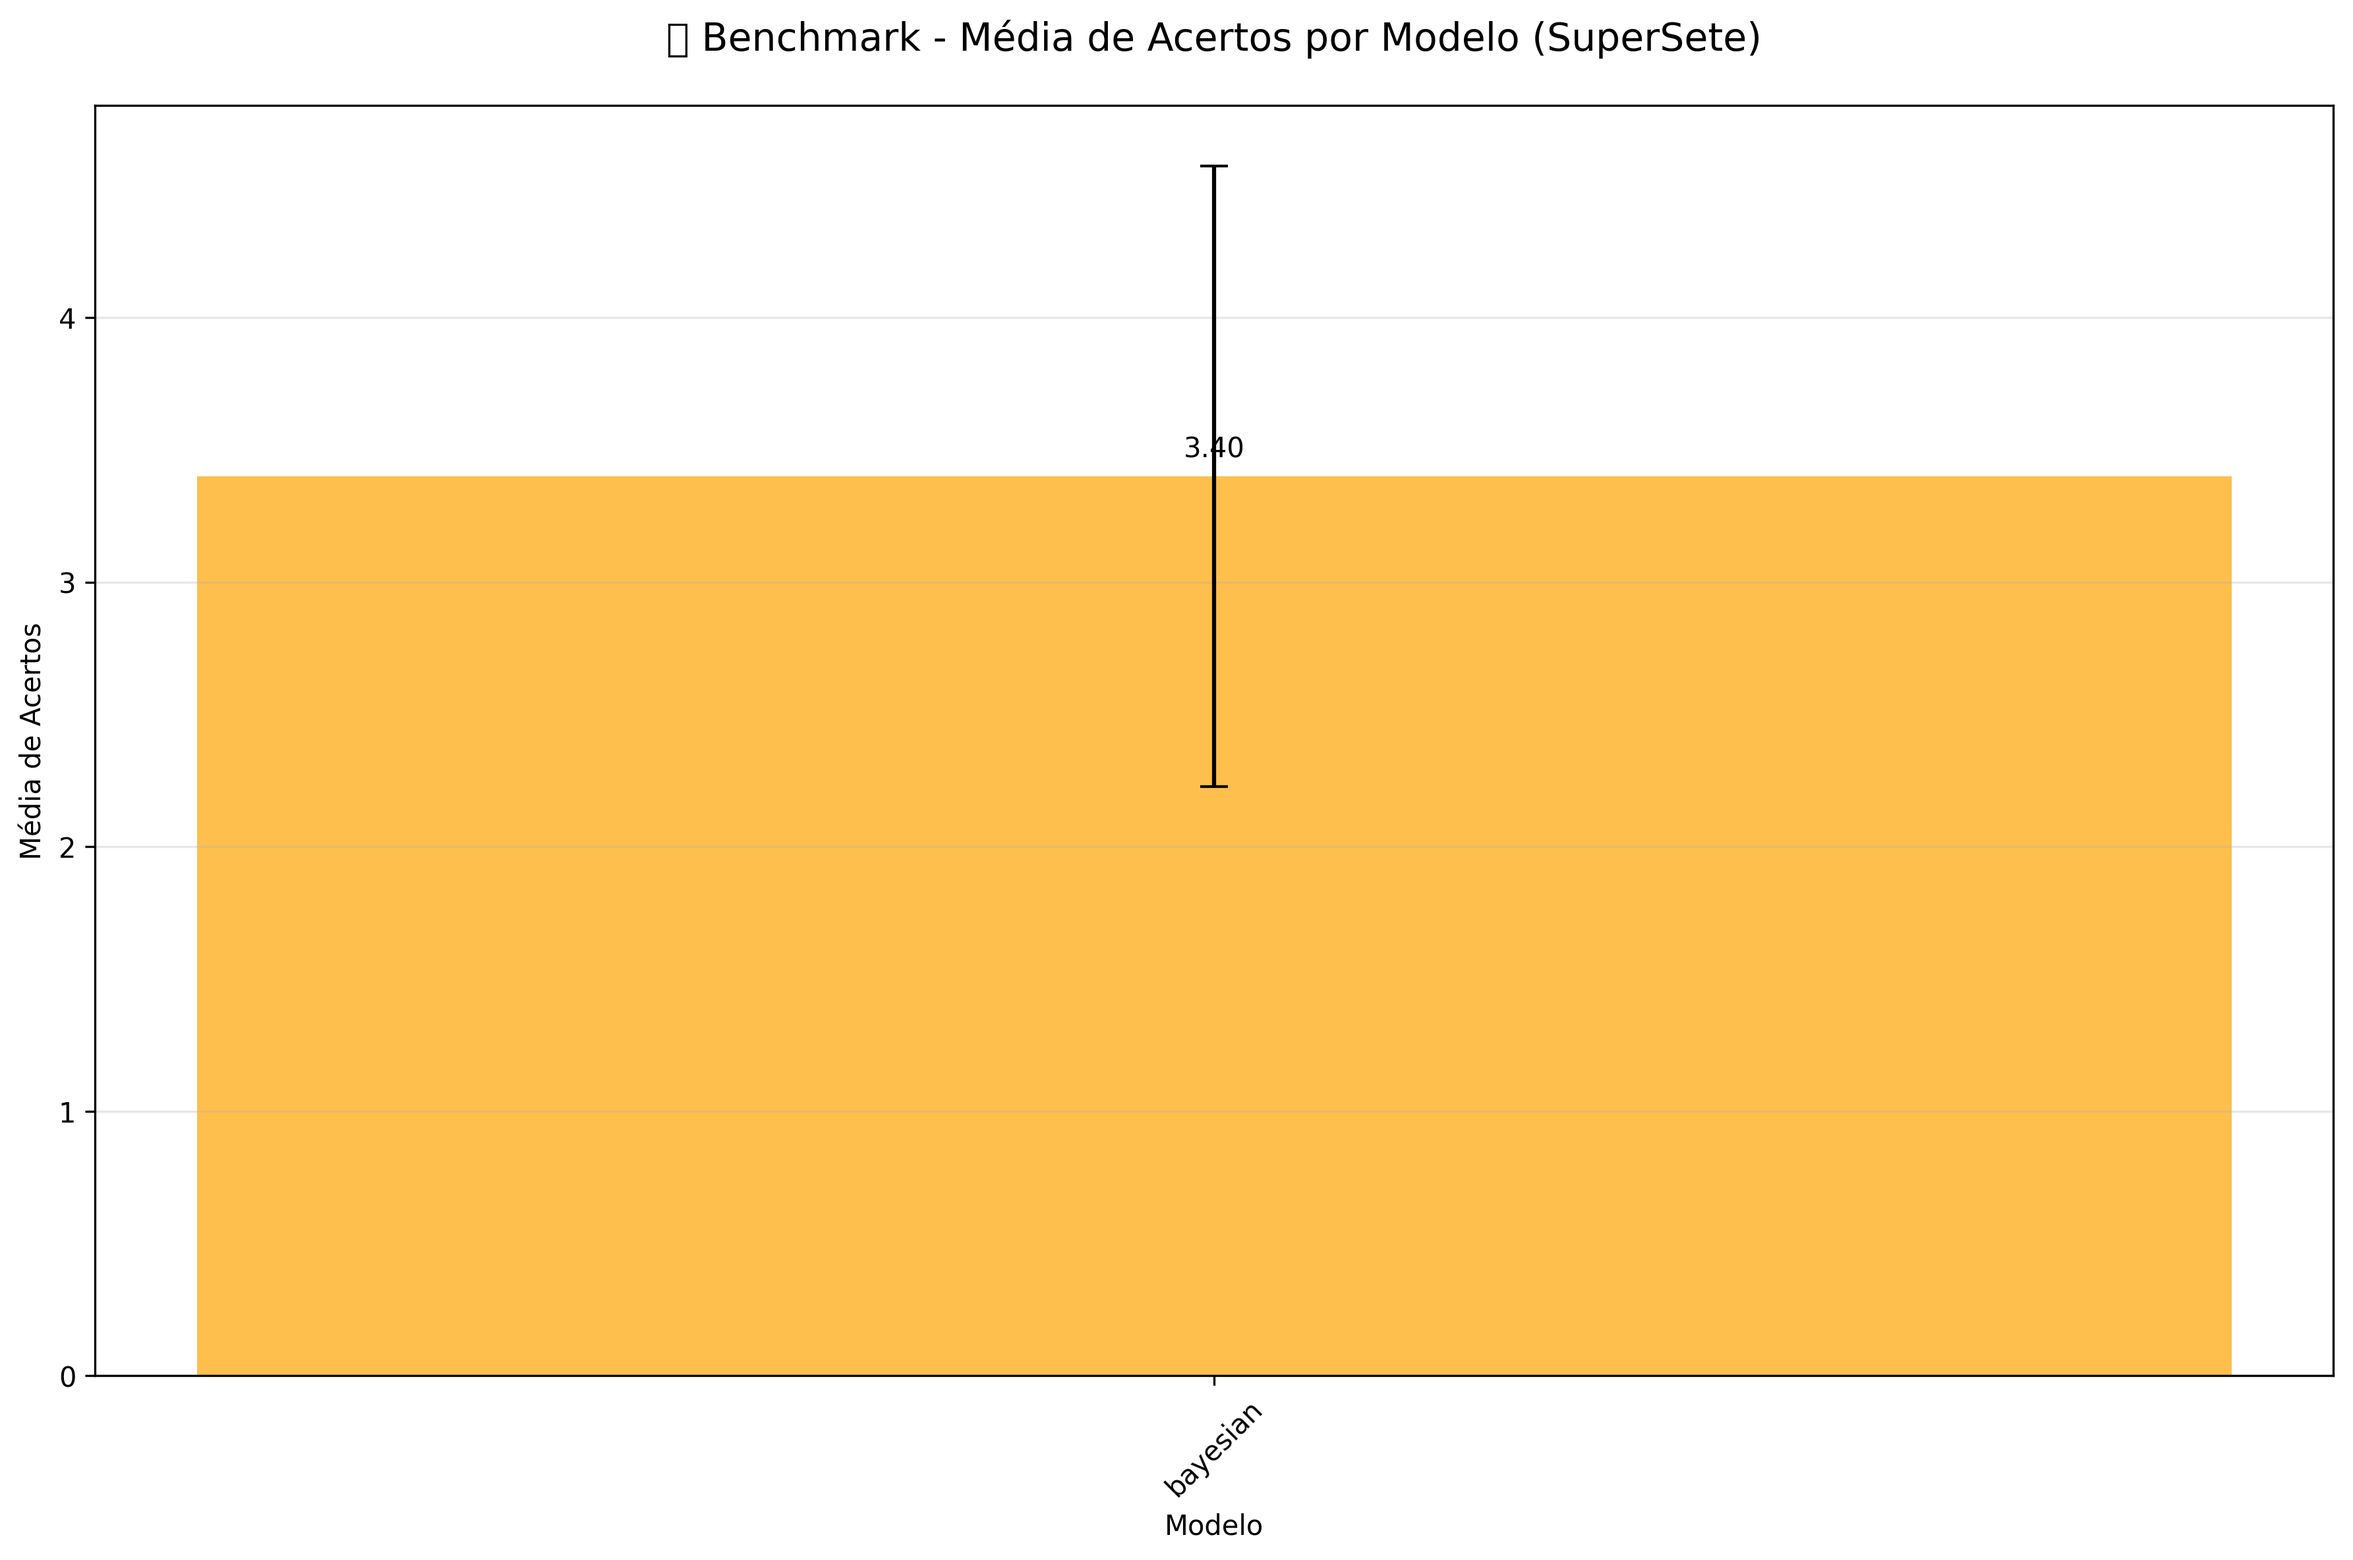
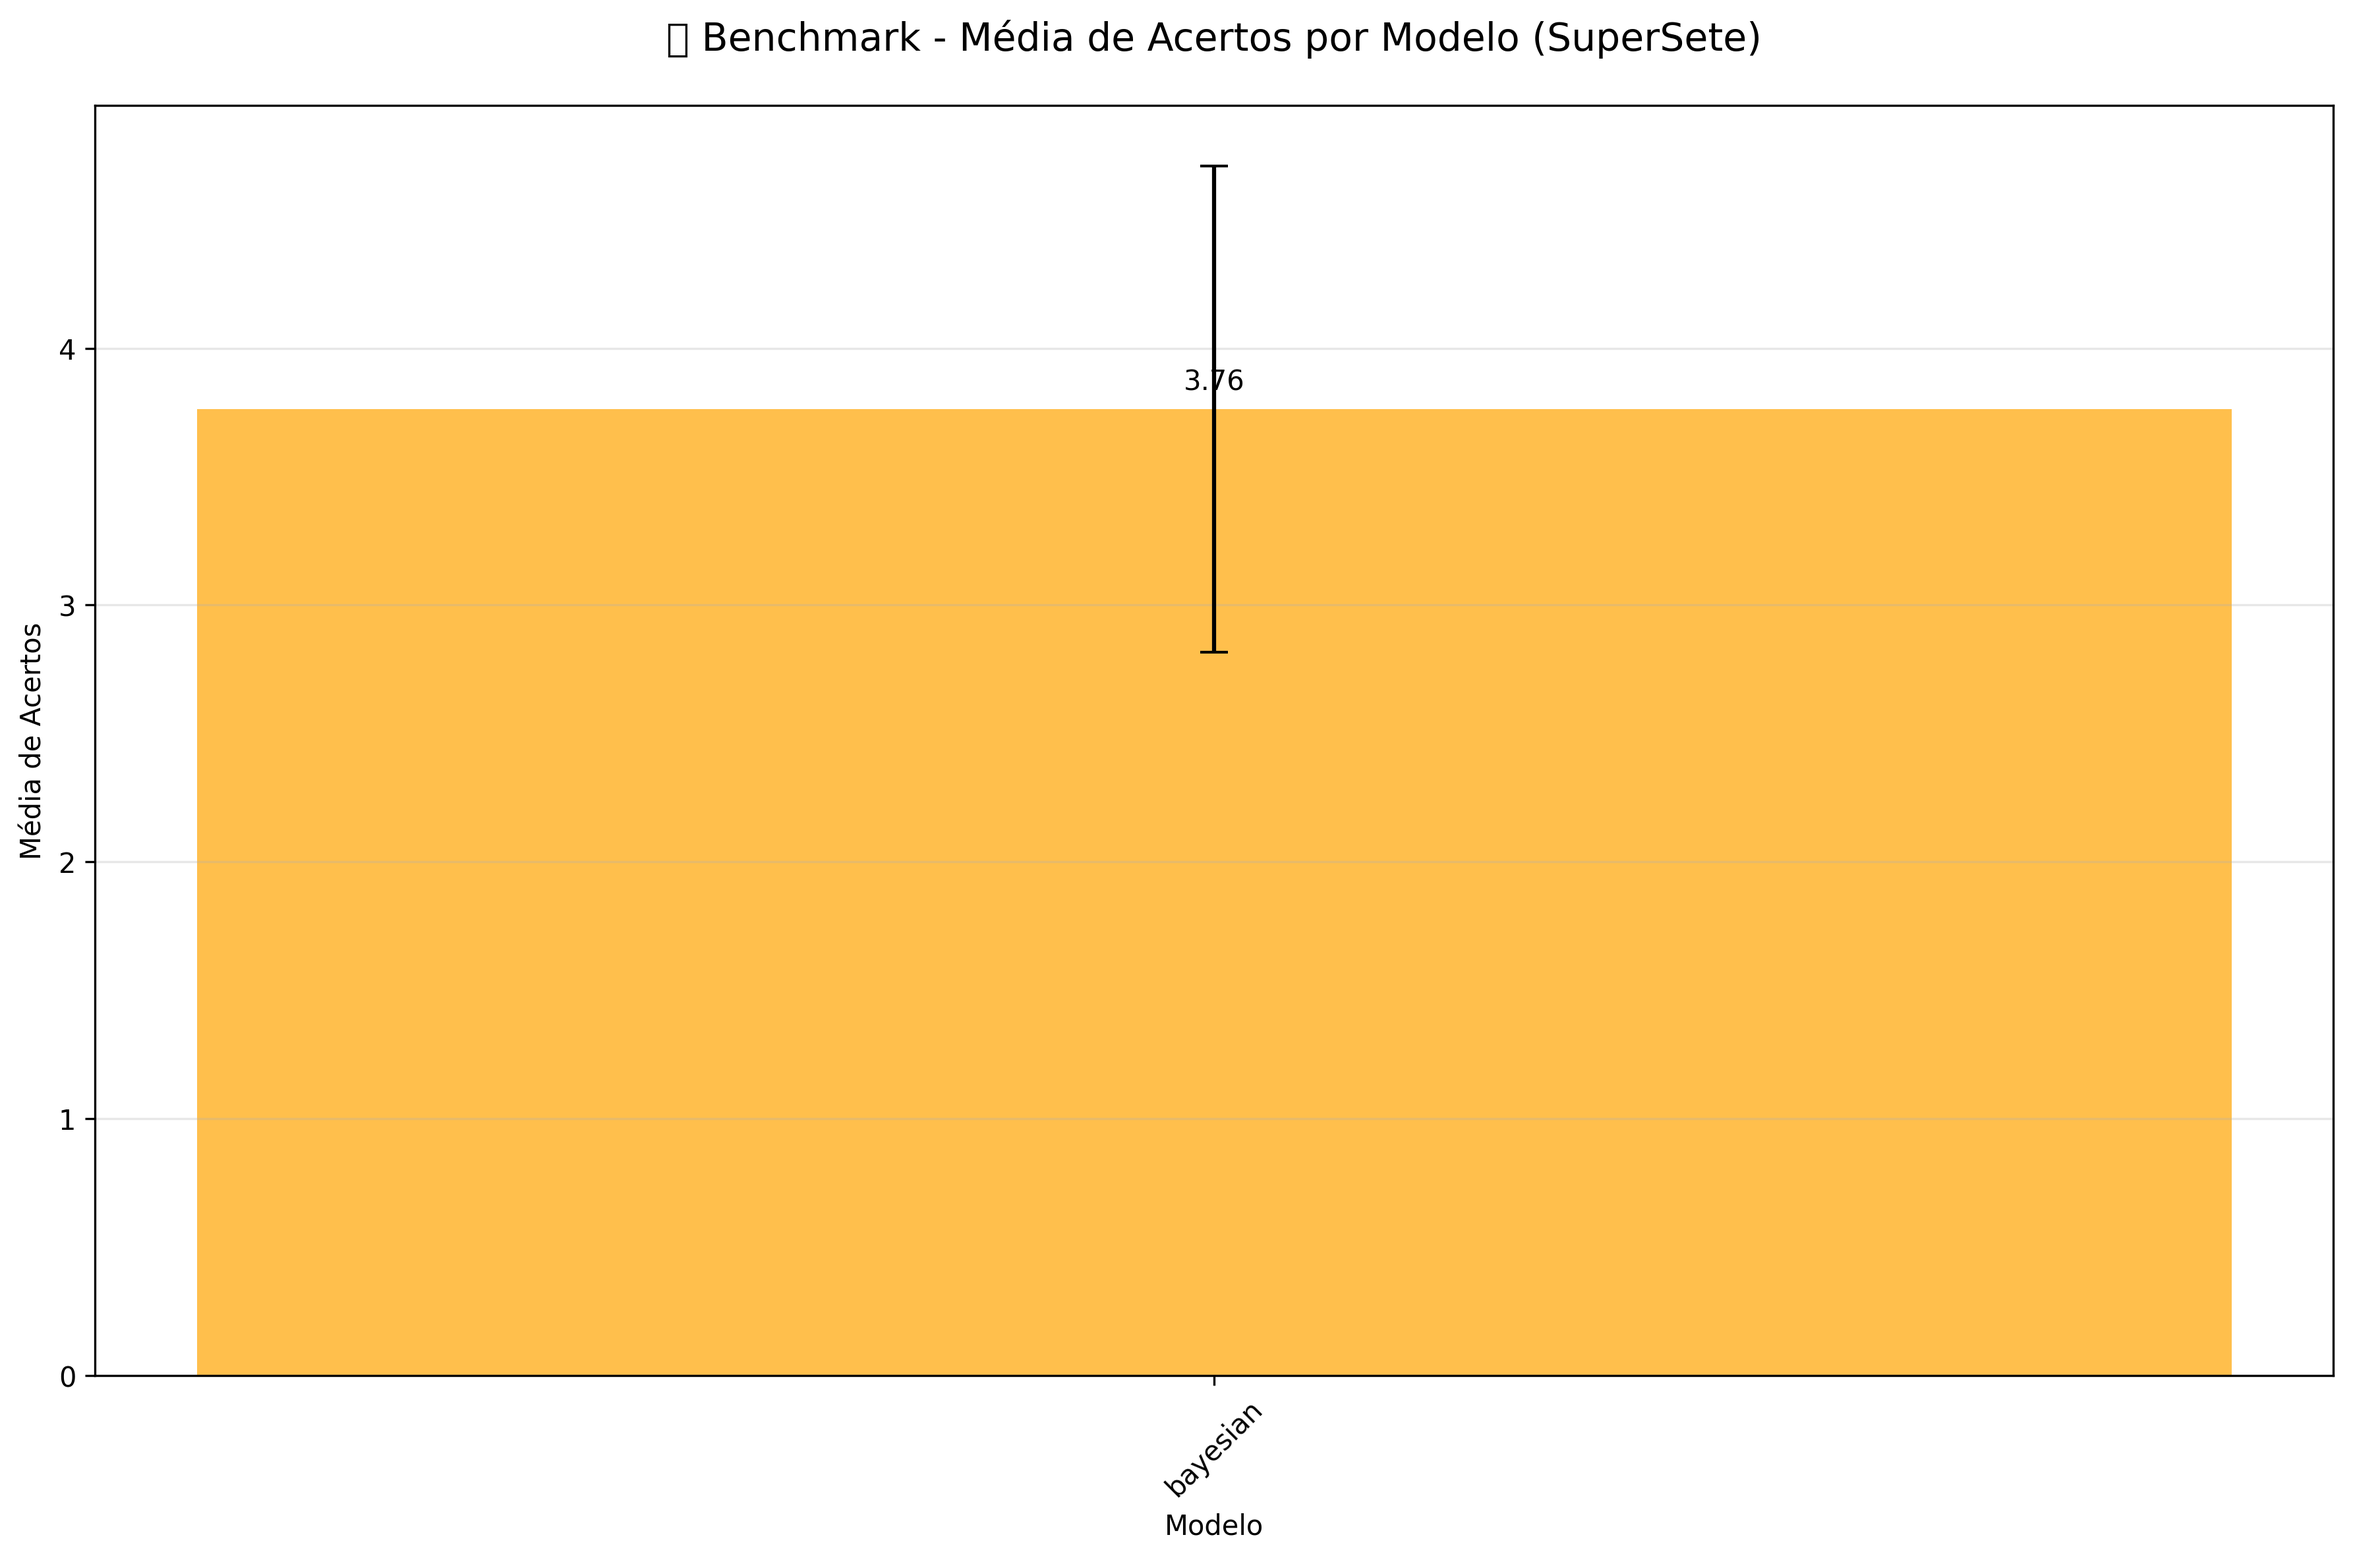
feat: Adiciona verificação de caminhos para datasets e atualiza resultados de benchmark

Changed region(s): [[0.0622, 0.2188, 0.9639, 0.3125]]

diff --git a/Oraculo/SuperSete/scripts/benchmark.py b/Oraculo/SuperSete/scripts/benchmark.py
@@ -18,6 +18,32 @@ CHART_IMG = "../docs/charts/benchmark_summary.png"
 N_VALID = 300
 TEST_MODE = True  # Permite qualquer predição ser comparada com qualquer concurso
 
+# Verificação de caminhos
+def verificar_paths():
+    """Verifica se os caminhos essenciais existem."""
+    print(f"📁 Diretório atual: {os.getcwd()}")
+    print(f"📄 Procurando dataset: {DATASET_PATH}")
+    
+    if not os.path.exists(DATASET_PATH):
+        # Tentar caminhos alternativos
+        alt_paths = [
+            "../data/SuperSete.csv",
+            "data/SuperSete.csv", 
+            "Oraculo/SuperSete/data/SuperSete.csv",
+            "../SuperSete/data/SuperSete.csv"
+        ]
+        
+        for alt_path in alt_paths:
+            if os.path.exists(alt_path):
+                print(f"✅ Dataset encontrado: {alt_path}")
+                return alt_path
+        
+        print(f"❌ Dataset não encontrado em nenhum caminho testado!")
+        return None
+    else:
+        print(f"✅ Dataset encontrado: {DATASET_PATH}")
+        return DATASET_PATH
+
 # === FUNÇÕES ===
 def parse_date_multi(s: str):
     """Tenta converter datas em múltiplos formatos comuns."""
@@ -32,7 +58,13 @@ def parse_date_multi(s: str):
     return None
 
 def load_dataset():
-    df = pd.read_csv(DATASET_PATH)
+    dataset_path = verificar_paths()
+    if not dataset_path:
+        raise FileNotFoundError("Dataset não encontrado!")
+    
+    print(f"📊 Carregando dados de {dataset_path}...")
+    df = pd.read_csv(dataset_path)
+    print(f"📊 Carregadas {len(df)} linhas do dataset")
     df = df.sort_values(by="Concurso")
     return df.tail(N_VALID)
 

diff --git a/Oraculo/Milionaria/scripts/benchmark.py b/Oraculo/Milionaria/scripts/benchmark.py
@@ -17,6 +17,32 @@ CHART_IMG = "../docs/charts/benchmark_summary.png"
 N_VALID = 300
 TEST_MODE = True  # Permite qualquer predição ser comparada com qualquer concurso
 
+# Verificação de caminhos
+def verificar_paths():
+    """Verifica se os caminhos essenciais existem."""
+    print(f"📁 Diretório atual: {os.getcwd()}")
+    print(f"📄 Procurando dataset: {DATASET_PATH}")
+    
+    if not os.path.exists(DATASET_PATH):
+        # Tentar caminhos alternativos
+        alt_paths = [
+            "../data/Milionaria.csv",
+            "data/Milionaria.csv", 
+            "Oraculo/Milionaria/data/Milionaria.csv",
+            "../Milionaria/data/Milionaria.csv"
+        ]
+        
+        for alt_path in alt_paths:
+            if os.path.exists(alt_path):
+                print(f"✅ Dataset encontrado: {alt_path}")
+                return alt_path
+        
+        print(f"❌ Dataset não encontrado em nenhum caminho testado!")
+        return None
+    else:
+        print(f"✅ Dataset encontrado: {DATASET_PATH}")
+        return DATASET_PATH
+
 
 def parse_date_multi(s: str):
     """Tenta converter datas em múltiplos formatos comuns."""
@@ -32,7 +58,13 @@ def parse_date_multi(s: str):
 
 
 def load_dataset():
-    df = pd.read_csv(DATASET_PATH)
+    dataset_path = verificar_paths()
+    if not dataset_path:
+        raise FileNotFoundError("Dataset não encontrado!")
+    
+    print(f"📊 Carregando dados de {dataset_path}...")
+    df = pd.read_csv(dataset_path)
+    print(f"📊 Carregadas {len(df)} linhas do dataset")
     df = df.sort_values(by="Concurso")
     return df.tail(N_VALID)
 

diff --git a/Oraculo/SuperSete/docs/benchmark_summary.md b/Oraculo/SuperSete/docs/benchmark_summary.md
@@ -1,20 +1,20 @@
 # 🎯 Benchmark Summary - SuperSete
 
-**Período analisado:** Últimos 10 concursos
+**Período analisado:** Últimos 300 concursos
 **Modelos testados:** 1 modelos
 
 ## 📊 Performance Geral por Modelo
 
 | modelo   |   media_acertos |   desvio_padrao |   n |
 |:---------|----------------:|----------------:|----:|
-| bayesian |             3.4 |         1.17379 |  10 |
+| bayesian |         3.76333 |         0.94709 | 300 |
 
 ## 🏆 Análise de Faixas de Premiação
 
 | Modelo | 4+ acertos | 5+ acertos | 6+ acertos | 7 acertos |
 |--------|------------|------------|------------|----------|
-| bayesian | 6 | 1 | 0 | 0 |
+| bayesian | 191 | 62 | 6 | 0 |
 
 ## 🥇 Melhor Modelo: **bayesian**
-- Média de acertos: **3.40**
-- Desvio padrão: 1.17
+- Média de acertos: **3.76**
+- Desvio padrão: 0.95
